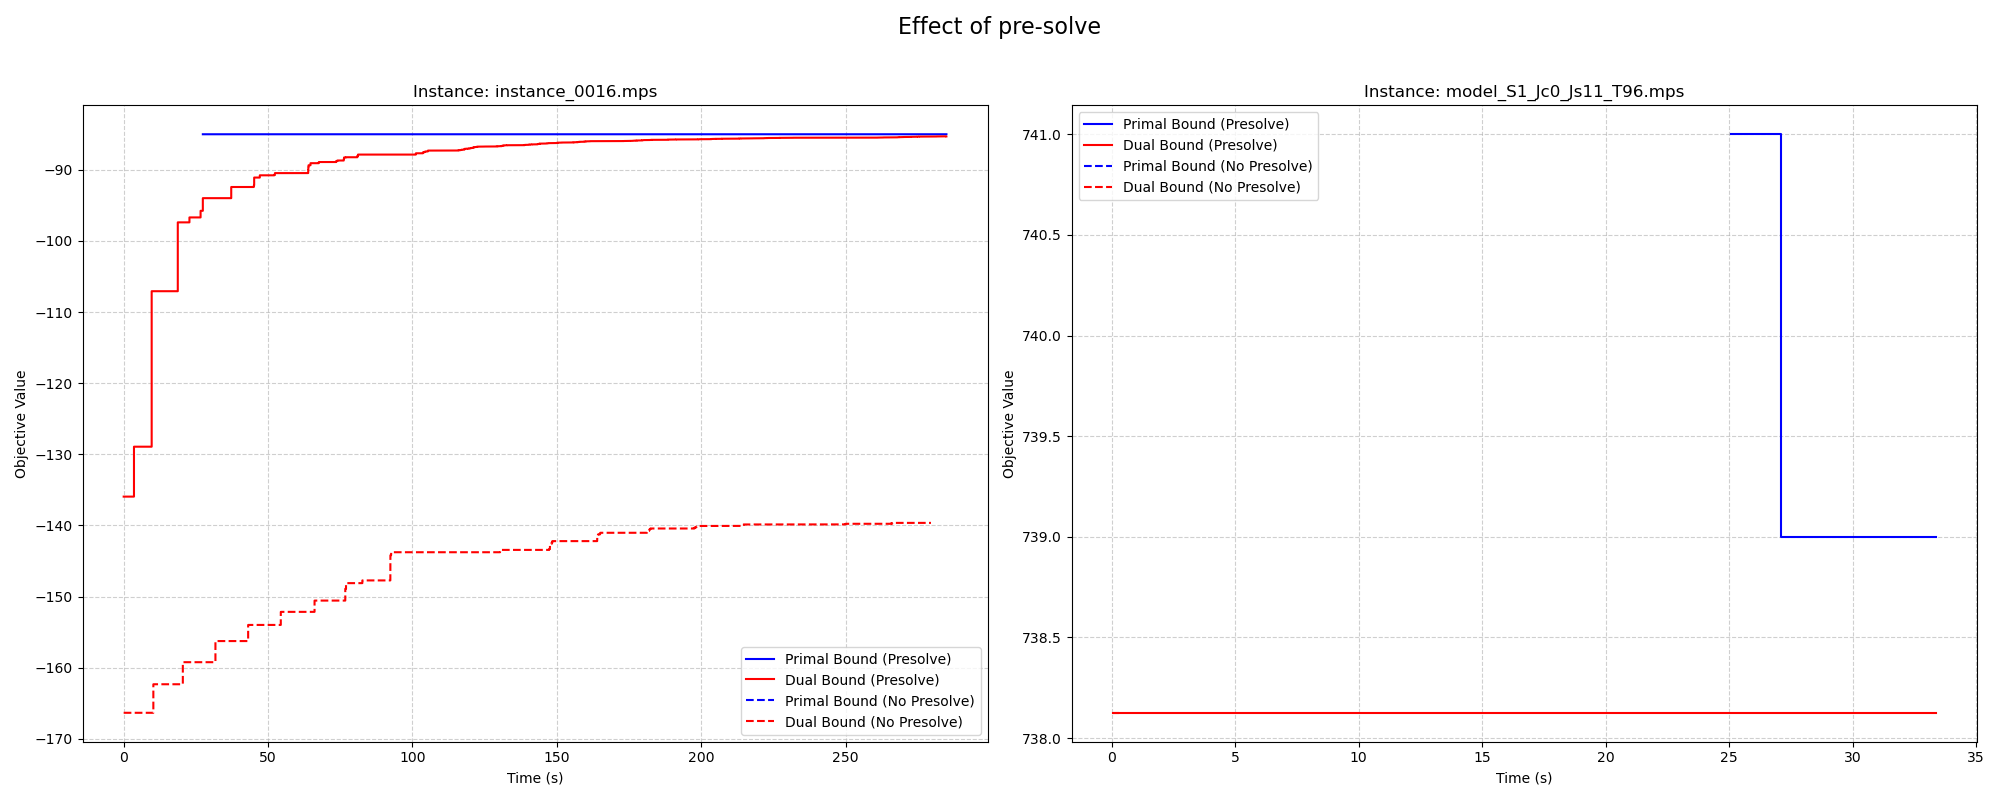
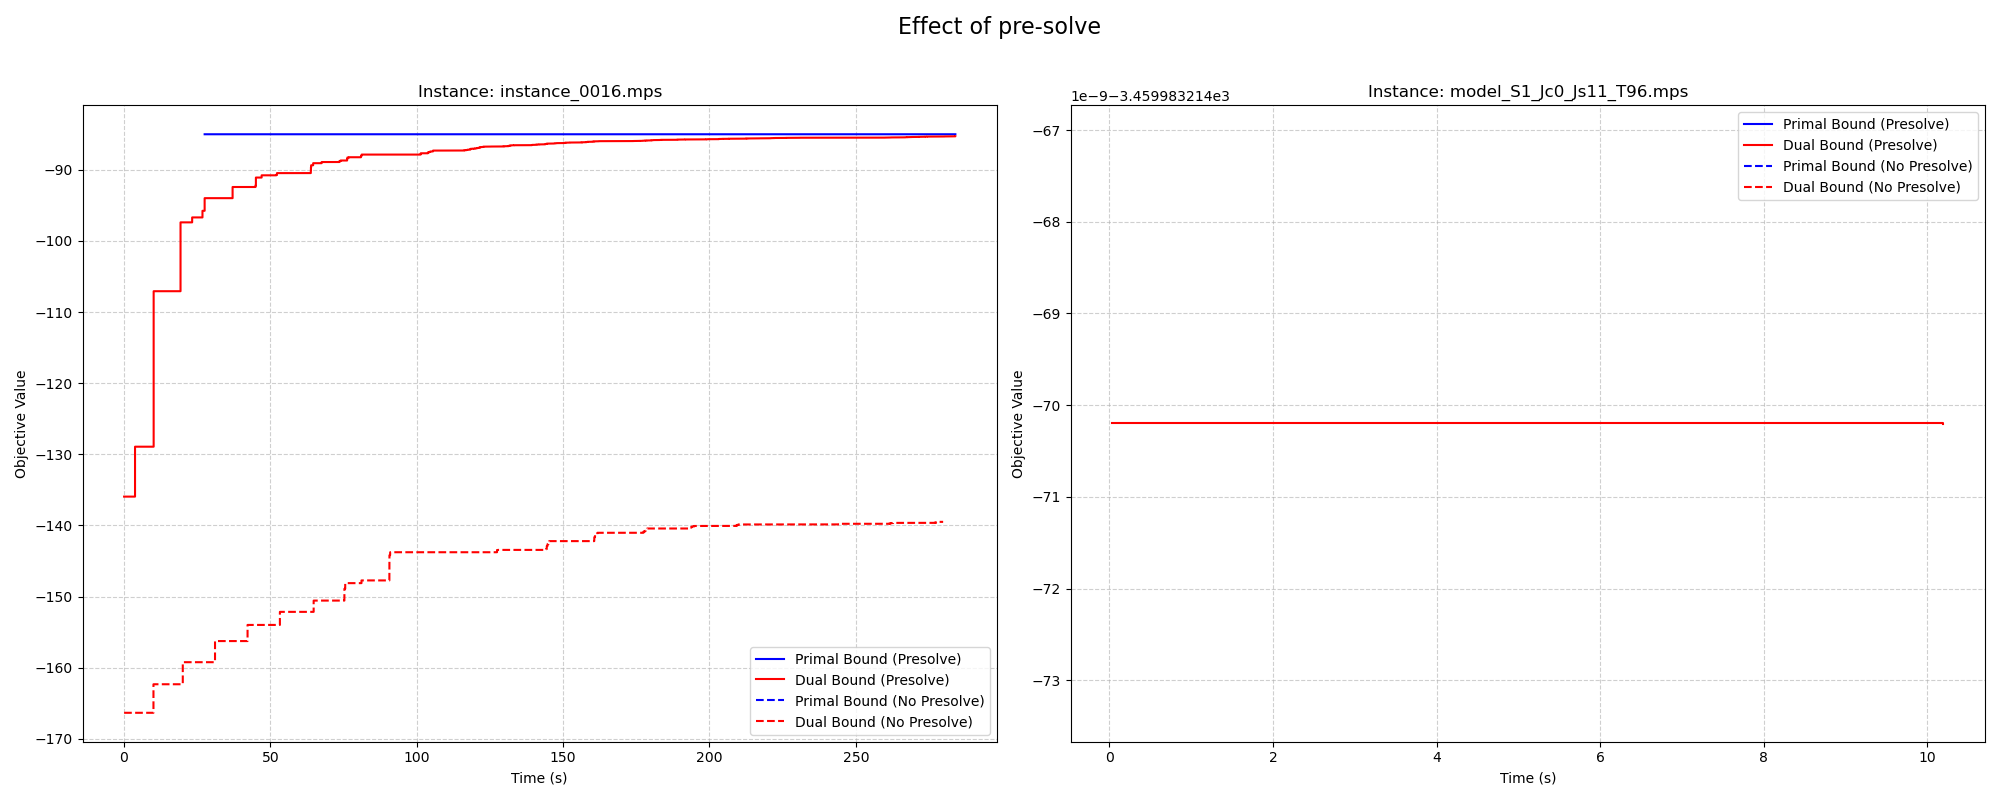
fix(presolve): Correct bugs in presolver and cut generation logic

diff --git a/final_tester_2.py b/final_tester_2.py
@@ -1,0 +1,70 @@
+import os
+import matplotlib.pyplot as plt
+import numpy as np
+
+# Import your solver components
+from reader.reader import MIPInstance
+from bnb.solver import BranchAndBoundSolver
+from main import run_presolve  # Or however your presolve is called
+from presolve.ModelCanonicalizer import ModelCanonicalizer
+
+def run_and_get_history(instance_path, clique_cuts_test):
+    print(f"\n--- Running: {os.path.basename(instance_path)} (Cliques: {clique_cuts_test}) ---")
+    instance = MIPInstance(instance_path)
+    run_presolve(instance)  # Assuming you have a presolve function
+    solver = BranchAndBoundSolver(instance,
+                                  enable_plunging=True,
+                                  k_plunging=10,
+                                  clique_cuts=clique_cuts_test,
+                                  strong_depth=10,
+                                  strong_k=1500)
+    solution, obj_value, times, primal_bounds, dual_bounds = solver.solve()
+
+    return times, primal_bounds, dual_bounds
+
+if __name__ == "__main__":
+
+    INSTANCE_FOLDER = "Test_instances"
+    instances_to_test = ["instance_0016.mps","model_S1_Jc0_Js11_T96.mps"]
+    # solver_params = {
+    #     'enable_plunging': True,
+    #     'k_plunging': 10,
+    #     'clique_cuts': True,
+    #     'strong_depth': 10,
+    #     'strong_k': 1500
+    # }
+
+    fig, axes = plt.subplots(1, 2, figsize=(20, 8))
+    fig.suptitle('Effect of clique cuts', fontsize=16)
+
+    for i, filename in enumerate(instances_to_test):
+        ax=axes[i]
+        instance_path=os.path.join(INSTANCE_FOLDER, filename)
+
+        t_pre, p_pre, d_pre = run_and_get_history(instance_path, True)
+
+        # Run without Presolve
+        t_no_pre, p_no_pre, d_no_pre = run_and_get_history(instance_path, False)
+
+        # --- Plotting ---
+        # With Presolve
+        ax.step(t_pre, p_pre, where='post', label='Primal Bound (Presolve)', color='blue', linestyle='-')
+        ax.step(t_pre, d_pre, where='post', label='Dual Bound (Presolve)', color='red', linestyle='-')
+
+        # Without Presolve
+        ax.step(t_no_pre, p_no_pre, where='post', label='Primal Bound (No Presolve)',color='blue', linestyle='--')
+        ax.step(t_no_pre, d_no_pre, where='post', label='Dual Bound (No Presolve)', color='red', linestyle='--')
+
+        ax.set_title(f"Instance: {filename}")
+        ax.set_xlabel("Time (s)")
+        ax.set_ylabel("Objective Value")
+        ax.grid(True, linestyle='--', alpha=0.6)
+        ax.legend()
+
+        # --- Save and Show ---
+    plt.tight_layout(rect=[0, 0, 1, 0.96])  # Adjust layout to make room for suptitle
+    plot_filename = "convergence_comparison_2.png"
+    plt.savefig(plot_filename)
+
+    print(f"\n📈 Comparison plot saved to {plot_filename}")
+    plt.show()

diff --git a/final_tester_3.py b/final_tester_3.py
@@ -1,0 +1,71 @@
+import os
+import matplotlib.pyplot as plt
+import numpy as np
+
+# Import your solver components
+from reader.reader import MIPInstance
+from bnb.solver import BranchAndBoundSolver
+from main import run_presolve  # Or however your presolve is called
+from presolve.ModelCanonicalizer import ModelCanonicalizer
+
+def run_and_get_history(instance_path, use_presolve, solver_params):
+    print(f"\n--- Running: {os.path.basename(instance_path)} (Presolve: {use_presolve}) ---")
+    instance = MIPInstance(instance_path)
+
+    if use_presolve:
+        print("⚙  Running presolver...")
+        run_presolve(instance)  # Assuming you have a presolve function
+    else:
+        ModelCanonicalizer().apply(instance)
+
+    solver = BranchAndBoundSolver(instance, **solver_params)
+    solution, obj_value, times, primal_bounds, dual_bounds = solver.solve()
+
+    return times, primal_bounds, dual_bounds
+
+if __name__ == "__main__":
+
+    INSTANCE_FOLDER = "Test_instances"
+    instances_to_test = ["instance_0016.mps","model_S1_Jc0_Js11_T96.mps"]
+    solver_params = {
+        'enable_plunging': True,
+        'k_plunging': 10,
+        'clique_cuts': True,
+        'strong_depth': 10,
+        'strong_k': 1500
+    }
+
+    fig, axes = plt.subplots(1, 2, figsize=(20, 8))
+    fig.suptitle('Effect of pre-solve', fontsize=16)
+
+    for i, filename in enumerate(instances_to_test):
+        ax=axes[i]
+        instance_path=os.path.join(INSTANCE_FOLDER, filename)
+
+        t_pre, p_pre, d_pre = run_and_get_history(instance_path, True, solver_params)
+
+        # Run without Presolve
+        t_no_pre, p_no_pre, d_no_pre = run_and_get_history(instance_path, False, solver_params)
+
+        # --- Plotting ---
+        # With Presolve
+        ax.step(t_pre, p_pre, where='post', label='Primal Bound (Presolve)', color='blue', linestyle='-')
+        ax.step(t_pre, d_pre, where='post', label='Dual Bound (Presolve)', color='red', linestyle='-')
+
+        # Without Presolve
+        ax.step(t_no_pre, p_no_pre, where='post', label='Primal Bound (No Presolve)',color='blue', linestyle='--')
+        ax.step(t_no_pre, d_no_pre, where='post', label='Dual Bound (No Presolve)', color='red', linestyle='--')
+
+        ax.set_title(f"Instance: {filename}")
+        ax.set_xlabel("Time (s)")
+        ax.set_ylabel("Objective Value")
+        ax.grid(True, linestyle='--', alpha=0.6)
+        ax.legend()
+
+        # --- Save and Show ---
+    plt.tight_layout(rect=[0, 0, 1, 0.96])  # Adjust layout to make room for suptitle
+    plot_filename = "convergence_comparison.png"
+    plt.savefig(plot_filename)
+
+    print(f"\n📈 Comparison plot saved to {plot_filename}")
+    plt.show()

diff --git a/final_tester_4.py b/final_tester_4.py
@@ -1,0 +1,71 @@
+import os
+import matplotlib.pyplot as plt
+import numpy as np
+
+# Import your solver components
+from reader.reader import MIPInstance
+from bnb.solver import BranchAndBoundSolver
+from main import run_presolve  # Or however your presolve is called
+from presolve.ModelCanonicalizer import ModelCanonicalizer
+
+def run_and_get_history(instance_path, use_presolve, solver_params):
+    print(f"\n--- Running: {os.path.basename(instance_path)} (Presolve: {use_presolve}) ---")
+    instance = MIPInstance(instance_path)
+
+    if use_presolve:
+        print("⚙  Running presolver...")
+        run_presolve(instance)  # Assuming you have a presolve function
+    else:
+        ModelCanonicalizer().apply(instance)
+
+    solver = BranchAndBoundSolver(instance, **solver_params)
+    solution, obj_value, times, primal_bounds, dual_bounds = solver.solve()
+
+    return times, primal_bounds, dual_bounds
+
+if __name__ == "__main__":
+
+    INSTANCE_FOLDER = "Test_instances"
+    instances_to_test = ["instance_0016.mps","model_S1_Jc0_Js11_T96.mps"]
+    solver_params = {
+        'enable_plunging': True,
+        'k_plunging': 10,
+        'clique_cuts': True,
+        'strong_depth': 10,
+        'strong_k': 1500
+    }
+
+    fig, axes = plt.subplots(1, 2, figsize=(20, 8))
+    fig.suptitle('Effect of pre-solve', fontsize=16)
+
+    for i, filename in enumerate(instances_to_test):
+        ax=axes[i]
+        instance_path=os.path.join(INSTANCE_FOLDER, filename)
+
+        t_pre, p_pre, d_pre = run_and_get_history(instance_path, True, solver_params)
+
+        # Run without Presolve
+        t_no_pre, p_no_pre, d_no_pre = run_and_get_history(instance_path, False, solver_params)
+
+        # --- Plotting ---
+        # With Presolve
+        ax.step(t_pre, p_pre, where='post', label='Primal Bound (Presolve)', color='blue', linestyle='-')
+        ax.step(t_pre, d_pre, where='post', label='Dual Bound (Presolve)', color='red', linestyle='-')
+
+        # Without Presolve
+        ax.step(t_no_pre, p_no_pre, where='post', label='Primal Bound (No Presolve)',color='blue', linestyle='--')
+        ax.step(t_no_pre, d_no_pre, where='post', label='Dual Bound (No Presolve)', color='red', linestyle='--')
+
+        ax.set_title(f"Instance: {filename}")
+        ax.set_xlabel("Time (s)")
+        ax.set_ylabel("Objective Value")
+        ax.grid(True, linestyle='--', alpha=0.6)
+        ax.legend()
+
+        # --- Save and Show ---
+    plt.tight_layout(rect=[0, 0, 1, 0.96])  # Adjust layout to make room for suptitle
+    plot_filename = "convergence_comparison.png"
+    plt.savefig(plot_filename)
+
+    print(f"\n📈 Comparison plot saved to {plot_filename}")
+    plt.show()

diff --git a/bnb/solver.py b/bnb/solver.py
@@ -33,6 +33,7 @@ class BranchAndBoundSolver:
 
         ### Primal Heuristics ###
         self.enable_pump=True
+        self.n_pump_incumbent=20
         self.n_pump = 2
         self.fp_max_it=20000
         self.pump_model = None
@@ -69,7 +70,7 @@ class BranchAndBoundSolver:
         times=[]
         primal_bounds=[]
         dual_bounds=[]
-        TIMEOUT_SECONDS = 300
+        TIMEOUT_SECONDS = 1200
 
         ### Initializing cliques
 
@@ -229,6 +230,16 @@ class BranchAndBoundSolver:
                             incumbent_str = f"{incumbent:10.5f}"
                             print(f"FP FOUND NEW INCUMBENT: {self.best_obj:.5f}")
 
+                if incumbent and self.enable_pump and (node_counter%self.n_pump_incumbent==0):
+                    if node.solution is not None:
+                        fp_obj, fp_sol = self.feasibility_pump(node.solution, working_model)
+                        if fp_obj is not None and fp_obj<self.best_obj:
+                            self.best_obj = fp_obj
+                            self.best_sol = fp_sol
+                            incumbent = self.best_obj
+                            incumbent_str = f"{incumbent:10.5f}"
+                            print(f"FP FOUND NEW INCUMBENT: {self.best_obj:.5f}")
+
                 if self.enable_diving and (node_counter%self.n_diving==0):
                     if node.solution is not None:
                         dv_obj,dv_sol=self._diving_heuristic(node, working_model,active_mgr)
@@ -288,6 +299,7 @@ class BranchAndBoundSolver:
         finally:
             end_total_solver_time = time.time()
             elapsed_total_solver_time = end_total_solver_time - start_total_solver_time
+            print(f"Best solution:{self.best_obj:.5f}")
             print("Total solver time: {:.4f} seconds".format(elapsed_total_solver_time))
             print(f"Total number of nodes explored:{node_counter}")
 
